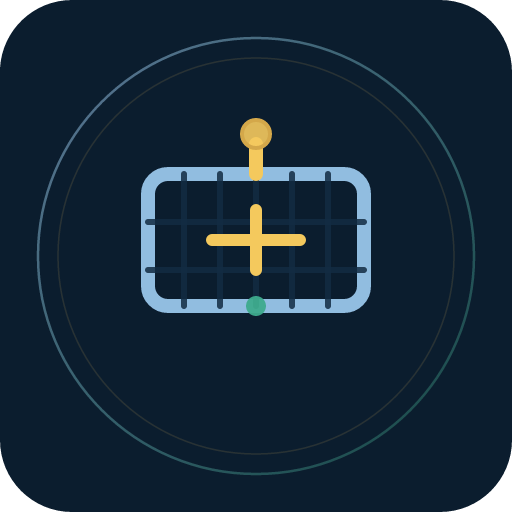
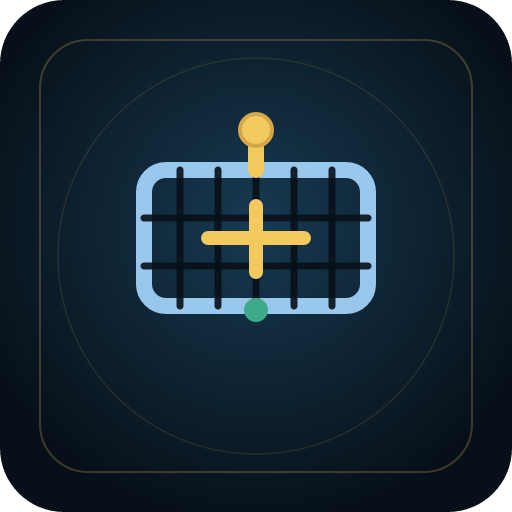
feat(stripe): v3 product PNG tiles and intense image audit
Ships.one-style radial fjord glow and inner gold frame on extra/clan/msp SVGs, regenerate 512 PNGs, and gate catalog paths, export copies, and live URLs via audit:stripe-product-images in swarm and launch.

diff --git a/docs/isles/ISLES_STRIPE_PRODUCT_ICONS.md b/docs/isles/ISLES_STRIPE_PRODUCT_ICONS.md
@@ -1,0 +1,13 @@
+# Isles Stripe product icons · Innsegall lane
+
+**Law:** One `checkout_image` per SKU · unique PNG on `https://innsegall.com/stripe/{extra,clan,msp}.png`. No shared tiles across SKUs or brands.
+
+| SKU | Glyph |
+|-----|--------|
+| `extra` | Scout beam · single run |
+| `clan` | Three household rings |
+| `msp` | Roster grid · per seat |
+
+**Ops:** `npm run export:stripe-images` → deploy → `STRIPE_SECRET_KEY=sk_live_… npm run sync:stripe-images` · audit: `npm run audit:stripe-product-images`.
+
+Portfolio cross-lane: SPQ `docs/isles/ISLES_STRIPE_PRODUCT_ICONS.md` (full matrix).

diff --git a/docs/STRIPE_PRODUCT_IMAGES.md b/docs/STRIPE_PRODUCT_IMAGES.md
@@ -8,7 +8,7 @@ On a **shared Isles Collective** account, each brand uses **its own domain** for
 
 ## Assets
 
-WWLuxe-style tiles: **512×512**, `rx="72"` fjord field, gold/aurora rings, **icon-only** (no checkout label text).
+**v3 Isles frame** (Ships.one parity): **512×512**, radial fjord glow `#173a52 → #071018`, inner gold frame (`stroke-opacity 0.22`), bold action glyph · **icon-only** (no price text). Gate: `npm run audit:stripe-product-images`.
 
 | Tile | Action metaphor |
 |------|-----------------|
